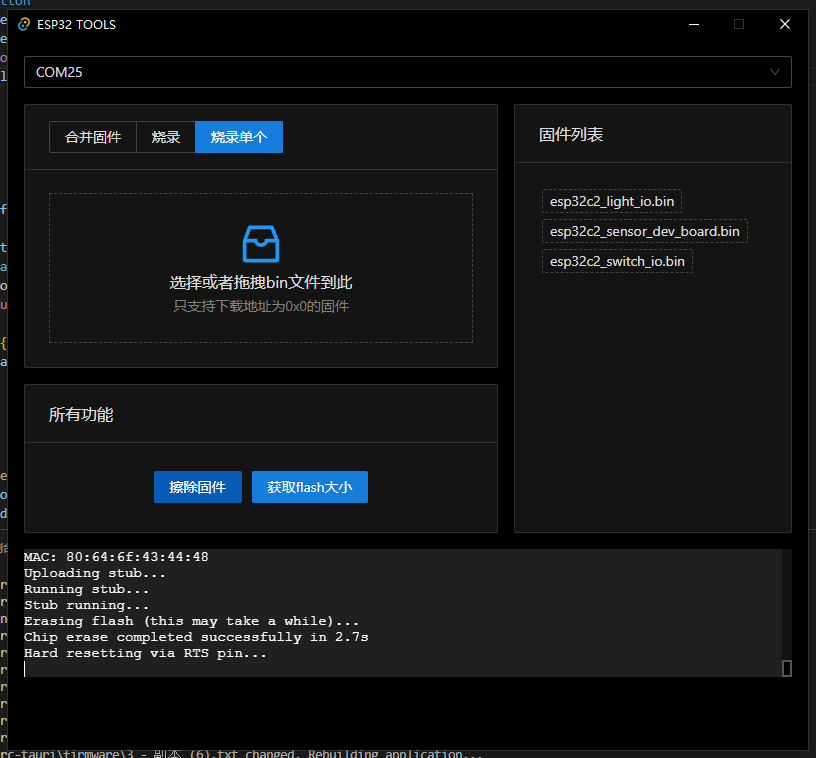
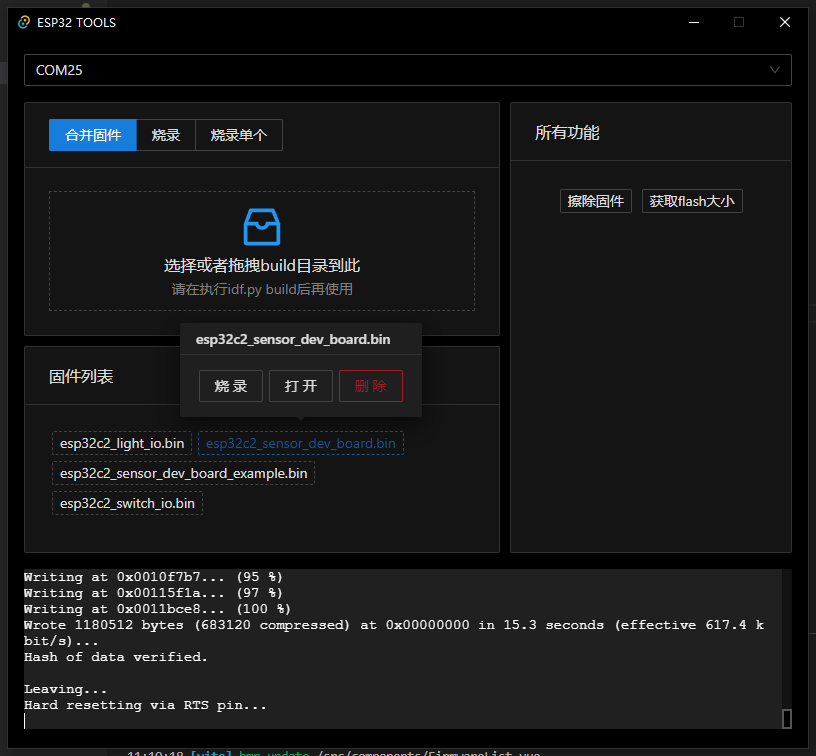
优化布局

diff --git a/src/components/CustomToolList.vue b/src/components/CustomToolList.vue
@@ -1,22 +1,21 @@
 <template>
   <a-card title="所有功能">
-    <div style="display:flex; flex-wrap: wrap; justify-content:center">
-      <a-tooltip v-for="item in customToolList" :key="item.name">
-        <template #title v-if="item.toast != null">{{ item.toast }}</template>
-        <a-button @click="run(item.cmd)" style="margin: 5px" type="primary">{{
-          item.name
-        }}</a-button>
-      </a-tooltip>
-
-
-
+    <div class="scroll" style="height:344px;overflow: auto">
+      <div style="display: flex; flex-wrap: wrap; justify-content: center">
+        <a-tooltip v-for="item in customToolList" :key="item.name">
+          <template #title v-if="item.toast != null">{{ item.toast }}</template>
+          <a-button size="small" @click="run(item.cmd)" style="margin: 5px" >{{
+            item.name
+          }}</a-button>
+        </a-tooltip>
+      </div>
     </div>
   </a-card>
 </template>
 <script>
 import { defineComponent, ref } from "vue";
-import { runCmd, generateCmd } from "../utils/esptool"
-import { getCustomToolList } from "../utils/hal"
+import { runCmd, generateCmd } from "../utils/esptool";
+import { getCustomToolList } from "../utils/hal";
 const customToolList = await getCustomToolList();
 export default defineComponent({
   setup() {
@@ -31,3 +30,19 @@ export default defineComponent({
   },
 });
 </script>
+<style>
+.scroll::-webkit-scrollbar-track {
+  -webkit-box-shadow: inset 0 0 6px rgba(0, 0, 0, 0.3);
+  background-color: #141414;
+}
+
+.scroll::-webkit-scrollbar {
+  width: 10px;
+  background-color: #141414;
+}
+
+.scroll::-webkit-scrollbar-thumb {
+  background-color: #000000;
+  border: 2px solid #555555;
+}
+</style>

diff --git a/src/components/Container.vue b/src/components/Container.vue
@@ -1,13 +1,13 @@
 <template>
   <div>
     <SerialPortSelect />
-    <a-row :gutter="16">
-      <a-col :span="15">
+    <a-row :gutter="10">
+      <a-col :span="15" >
         <ToolList />
-        <CustomToolList style="margin-top:16px;" />
+        <FirmwareList  style="margin-top: 10px;"  />
       </a-col>
       <a-col :span="9">
-        <FirmwareList />
+        <CustomToolList/>
       </a-col>
     </a-row>
     <Terminal />
@@ -19,7 +19,4 @@ import ToolList from "./ToolList.vue";
 import CustomToolList from "./CustomToolList.vue";
 import Terminal from "./Terminal.vue";
 import FirmwareList from "./FirmwareList.vue";
-
-
-
 </script>

diff --git a/src/components/ToolList.vue b/src/components/ToolList.vue
@@ -94,7 +94,7 @@ export default defineComponent({
 <style>
 .dropBox {
   width: 100%;
-  height: 150px;
+  height: 120px;
   border: 1px dashed #434343;
   display: flex;
   flex-direction: column;
@@ -105,7 +105,7 @@ export default defineComponent({
 
 .dropBox:hover {
   width: 100%;
-  height: 150px;
+  height: 120px;
   border: 1px dashed #177ddc;
   cursor: pointer;
   transition: all ease 1s;
@@ -113,7 +113,7 @@ export default defineComponent({
 
 .dropBoxHover {
   width: 100%;
-  height: 150px;
+  height: 120px;
   border: 1px dashed #177ddc;
   display: flex;
   flex-direction: column;

diff --git a/src/components/FirmwareList.vue b/src/components/FirmwareList.vue
@@ -1,6 +1,6 @@
 <template>
-  <a-card title="固件列表" style="height: 100%">
-    <div style="height: 300px; overflow: auto" class="scroll">
+  <a-card title="固件列表" >
+    <div style="height:100px;overflow: auto" class="scroll">
       <a-popover v-for="item in firmwareList" :title="item" trigger="click">
         <template #content>
           <a-button style="margin: 3px" @click="btn(item, 'flash')"

diff --git a/src/utils/esptool.js b/src/utils/esptool.js
@@ -31,8 +31,7 @@ export async function generateCmd(data, path = "") {
       return;
     }
   }
-  let isIncludeFlashArgs =
-    cmd.find((x) => x === "${flashArgs}") == null ? false : true;
+  let isIncludeFlashArgs = cmd.find((x) => x === "${flashArgs}") != null;
   let appInfo;
   if (isIncludeFlashArgs) {
     appInfo = await getFlashArgs(path);
